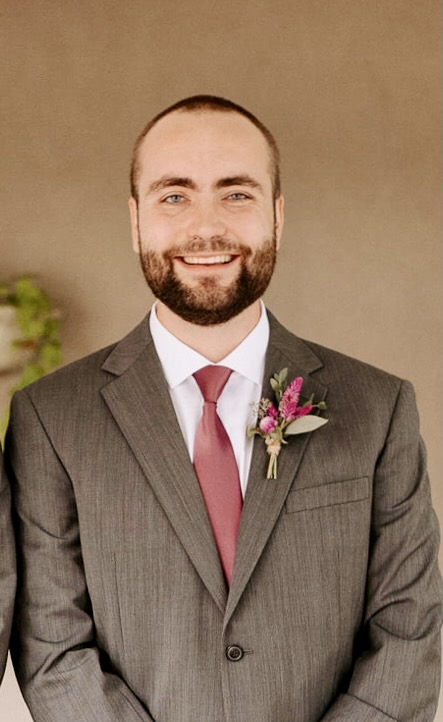
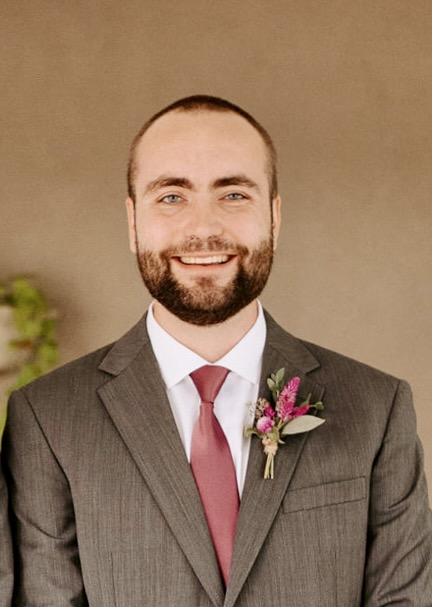
Changed profile picture (w/ better crop).

diff --git a/public/post/2021-10-06-r-rmarkdown/index.html b/public/post/2021-10-06-r-rmarkdown/index.html
@@ -33,7 +33,7 @@
   
     
   
-  <meta name="description" content="One of these programs is not like the other? How similar are economics PhD programs? Which program attribute, or set of attributes, is the most informative to compare one program against another." />
+  <meta name="description" content="One of these programs is not like the other? How similar are economics PhD programs? Which program attribute, or set of attributes, is the most informative to compare one program against another?" />
 
   
   <link rel="alternate" hreflang="en-us" href="/post/2021-10-06-r-rmarkdown/" />
@@ -304,11 +304,11 @@
   <meta property="og:site_name" content="David Terner" />
   <meta property="og:url" content="/post/2021-10-06-r-rmarkdown/" />
   <meta property="og:title" content="Public University Economics PhD Programs Clustering | David Terner" />
-  <meta property="og:description" content="One of these programs is not like the other? How similar are economics PhD programs? Which program attribute, or set of attributes, is the most informative to compare one program against another." /><meta property="og:image" content="/images/icon_hu8edb16adddcb0b565a3e3b74e788d0c6_306732_512x512_fill_lanczos_center_2.png" />
+  <meta property="og:description" content="One of these programs is not like the other? How similar are economics PhD programs? Which program attribute, or set of attributes, is the most informative to compare one program against another?" /><meta property="og:image" content="/images/icon_hu8edb16adddcb0b565a3e3b74e788d0c6_306732_512x512_fill_lanczos_center_2.png" />
     <meta property="twitter:image" content="/images/icon_hu8edb16adddcb0b565a3e3b74e788d0c6_306732_512x512_fill_lanczos_center_2.png" /><meta property="og:locale" content="en-us" />
   
     
-    <meta property="article:modified_time" content="2021-10-06T16:59:40-04:00">
+    <meta property="article:modified_time" content="2021-10-06T17:02:53-04:00">
   
 
   
@@ -337,7 +337,7 @@
   "headline": "Public University Economics PhD Programs Clustering",
   
   "datePublished": "0001-01-01T00:00:00Z",
-  "dateModified": "2021-10-06T16:59:40-04:00",
+  "dateModified": "2021-10-06T17:02:53-04:00",
   
   "author": {
     "@type": "Person",
@@ -352,7 +352,7 @@
       "url": "/images/icon_hu8edb16adddcb0b565a3e3b74e788d0c6_306732_192x192_fill_lanczos_center_2.png"
     }
   },
-  "description": "One of these programs is not like the other? How similar are economics PhD programs? Which program attribute, or set of attributes, is the most informative to compare one program against another."
+  "description": "One of these programs is not like the other? How similar are economics PhD programs? Which program attribute, or set of attributes, is the most informative to compare one program against another?"
 }
 </script>
 
@@ -830,7 +830,8 @@
 
 <div id="one-of-these-programs-is-not-like-the-other" class="section level2">
 <h2>One of these programs is not like the other?</h2>
-<p>How similar are economics PhD programs? Which program attribute, or set of attributes, is the most informative to compare one program against another. Common attributes range from difficulty of admission, to quality of initial job market placement, to even the amount and regularity of funding. While comparing two programs on the basis of a single characteristic, say probability of failing preliminary exams, is straightforward enough, any good analysis should reflect all possible program dimensions in a parsimonious way; in other words, we would like to employ a method that reduces the number of dimensions to consider while retaining essential information (e.g. data variation). Moreover, how do we come up with groupings/clusters after we’ve applied our dimension reduction technique?</p>
+<p>How similar are economics PhD programs? Which program attribute, or set of attributes, is the most informative to compare one program against another? Common attributes range from difficulty of admission, to quality of initial job market placement, to even the amount and regularity of funding. While comparing two programs on the basis of a single characteristic, say probability of failing preliminary exams, is straightforward enough, any good analysis should reflect all possible program dimensions in a parsimonious way.</p>
+<p>In other words, we would like to employ a method that reduces the number of dimensions to consider while retaining essential information (e.g. data variation). Moreover, how do we come up with groupings/clusters after we’ve applied our dimension reduction technique?</p>
 <p>In this exercise, I collect the following data for U.S. public universities that award Economics PhDs:</p>
 <ul>
 <li><strong>Program Ratings</strong>: Sourced from the <a href="https://www.usnews.com/best-graduate-schools/top-humanities-schools/economics-rankings">2017 US-News and World Report</a>peer assessment score for Economics Ph.D. programs. Ratings range from 1 (marginal) to 5 (outstanding). The next release of US-News and World Report ranks is scheduled for 2023.</li>
@@ -981,7 +982,7 @@
   <div class="media author-card content-widget-hr">
     
       
-      <a href="/"><img class="avatar mr-3 avatar-circle" src="/author/david-terner/avatar_hubf044181fef5d9dd0440ffccb00ddef7_2103893_270x270_fill_lanczos_center_2.png" alt="David Terner"></a>
+      <a href="/"><img class="avatar mr-3 avatar-circle" src="/author/david-terner/avatar_huf3bea62e617d8783eea27b406061f4e9_74802_270x270_fill_q75_lanczos_center.jpg" alt="David Terner"></a>
     
 
     <div class="media-body">

diff --git a/public/index.html b/public/index.html
@@ -819,7 +819,7 @@
 
       
       
-      <img class="avatar avatar-circle" src="/author/david-terner/avatar_hubf044181fef5d9dd0440ffccb00ddef7_2103893_270x270_fill_lanczos_center_2.png" alt="David Terner">
+      <img class="avatar avatar-circle" src="/author/david-terner/avatar_huf3bea62e617d8783eea27b406061f4e9_74802_270x270_fill_q75_lanczos_center.jpg" alt="David Terner">
       
 
       <div class="portrait-title">
@@ -1560,7 +1560,7 @@
     
     <a href="/post/2021-10-06-r-rmarkdown/"  class="summary-link">
       <div class="article-style">
-        One of these programs is not like the other? How similar are economics PhD programs? Which program attribute, or set of attributes, is the most informative to compare one program against another.
+        One of these programs is not like the other? How similar are economics PhD programs? Which program attribute, or set of attributes, is the most informative to compare one program against another?
       </div>
     </a>
     

diff --git a/public/post/2020-12-01-r-rmarkdown/index.html b/public/post/2020-12-01-r-rmarkdown/index.html
@@ -1046,7 +1046,7 @@ where the dependent variable is <span class="math inline">\(G_{i,t}\)</span> is 
   <div class="media author-card content-widget-hr">
     
       
-      <a href="/"><img class="avatar mr-3 avatar-circle" src="/author/david-terner/avatar_hubf044181fef5d9dd0440ffccb00ddef7_2103893_270x270_fill_lanczos_center_2.png" alt="David Terner"></a>
+      <a href="/"><img class="avatar mr-3 avatar-circle" src="/author/david-terner/avatar_huf3bea62e617d8783eea27b406061f4e9_74802_270x270_fill_q75_lanczos_center.jpg" alt="David Terner"></a>
     
 
     <div class="media-body">

diff --git a/public/post/index.html b/public/post/index.html
@@ -860,7 +860,7 @@
     
     <a href="/post/2021-10-06-r-rmarkdown/"  class="summary-link">
       <div class="article-style">
-        One of these programs is not like the other? How similar are economics PhD programs? Which program attribute, or set of attributes, is the most informative to compare one program against another.
+        One of these programs is not like the other? How similar are economics PhD programs? Which program attribute, or set of attributes, is the most informative to compare one program against another?
       </div>
     </a>
     

diff --git a/public/project/external-project/index.html b/public/project/external-project/index.html
@@ -1002,7 +1002,7 @@
   <div class="media author-card content-widget-hr">
     
       
-      <a href="/"><img class="avatar mr-3 avatar-circle" src="/author/david-terner/avatar_hubf044181fef5d9dd0440ffccb00ddef7_2103893_270x270_fill_lanczos_center_2.png" alt="David Terner"></a>
+      <a href="/"><img class="avatar mr-3 avatar-circle" src="/author/david-terner/avatar_huf3bea62e617d8783eea27b406061f4e9_74802_270x270_fill_q75_lanczos_center.jpg" alt="David Terner"></a>
     
 
     <div class="media-body">

diff --git a/public/project/internal-project/index.html b/public/project/internal-project/index.html
@@ -1025,7 +1025,7 @@
   <div class="media author-card content-widget-hr">
     
       
-      <a href="/"><img class="avatar mr-3 avatar-circle" src="/author/david-terner/avatar_hubf044181fef5d9dd0440ffccb00ddef7_2103893_270x270_fill_lanczos_center_2.png" alt="David Terner"></a>
+      <a href="/"><img class="avatar mr-3 avatar-circle" src="/author/david-terner/avatar_huf3bea62e617d8783eea27b406061f4e9_74802_270x270_fill_q75_lanczos_center.jpg" alt="David Terner"></a>
     
 
     <div class="media-body">

diff --git a/public/publication/conference-paper/index.html b/public/publication/conference-paper/index.html
@@ -1142,7 +1142,7 @@
   <div class="media author-card content-widget-hr">
     
       
-      <a href="/"><img class="avatar mr-3 avatar-circle" src="/author/david-terner/avatar_hubf044181fef5d9dd0440ffccb00ddef7_2103893_270x270_fill_lanczos_center_2.png" alt="David Terner"></a>
+      <a href="/"><img class="avatar mr-3 avatar-circle" src="/author/david-terner/avatar_huf3bea62e617d8783eea27b406061f4e9_74802_270x270_fill_q75_lanczos_center.jpg" alt="David Terner"></a>
     
 
     <div class="media-body">

diff --git a/public/publication/journal-article/index.html b/public/publication/journal-article/index.html
@@ -1083,7 +1083,7 @@
   <div class="media author-card content-widget-hr">
     
       
-      <a href="/"><img class="avatar mr-3 avatar-circle" src="/author/david-terner/avatar_hubf044181fef5d9dd0440ffccb00ddef7_2103893_270x270_fill_lanczos_center_2.png" alt="David Terner"></a>
+      <a href="/"><img class="avatar mr-3 avatar-circle" src="/author/david-terner/avatar_huf3bea62e617d8783eea27b406061f4e9_74802_270x270_fill_q75_lanczos_center.jpg" alt="David Terner"></a>
     
 
     <div class="media-body">

diff --git a/public/publication/preprint/index.html b/public/publication/preprint/index.html
@@ -1122,7 +1122,7 @@
   <div class="media author-card content-widget-hr">
     
       
-      <a href="/"><img class="avatar mr-3 avatar-circle" src="/author/david-terner/avatar_hubf044181fef5d9dd0440ffccb00ddef7_2103893_270x270_fill_lanczos_center_2.png" alt="David Terner"></a>
+      <a href="/"><img class="avatar mr-3 avatar-circle" src="/author/david-terner/avatar_huf3bea62e617d8783eea27b406061f4e9_74802_270x270_fill_q75_lanczos_center.jpg" alt="David Terner"></a>
     
 
     <div class="media-body">

diff --git a/public/talk/example-talk/index.html b/public/talk/example-talk/index.html
@@ -1083,7 +1083,7 @@
   <div class="media author-card content-widget-hr">
     
       
-      <a href="/"><img class="avatar mr-3 avatar-circle" src="/author/david-terner/avatar_hubf044181fef5d9dd0440ffccb00ddef7_2103893_270x270_fill_lanczos_center_2.png" alt="David Terner"></a>
+      <a href="/"><img class="avatar mr-3 avatar-circle" src="/author/david-terner/avatar_huf3bea62e617d8783eea27b406061f4e9_74802_270x270_fill_q75_lanczos_center.jpg" alt="David Terner"></a>
     
 
     <div class="media-body">
